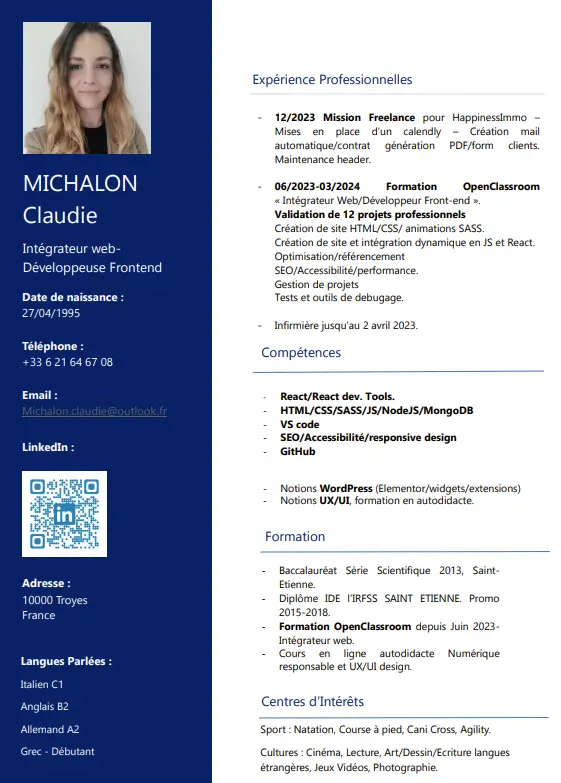
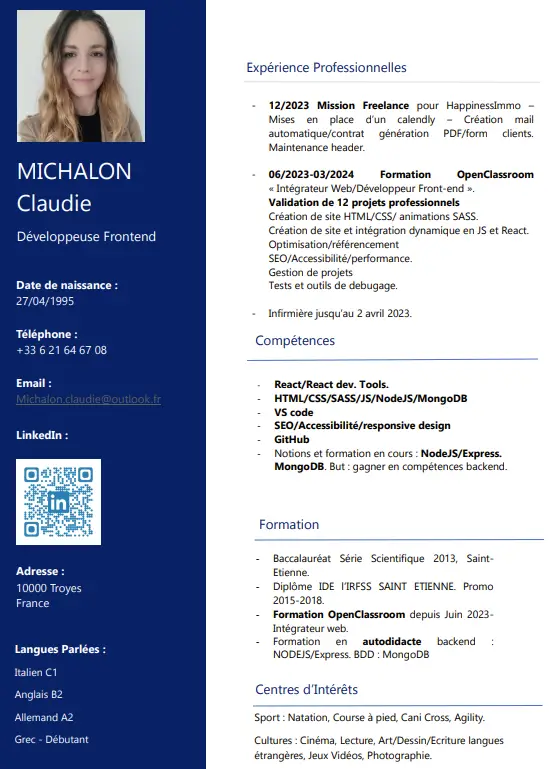
upgrade carrousel

diff --git a/src/Component/Carrousel.jsx b/src/Component/Carrousel.jsx
@@ -1,10 +1,20 @@
-import React, {useState} from 'react'
+import React, {useState,useEffect} from 'react'
 import '../Style/Carrousel.scss'
 import { faGithub } from '@fortawesome/free-brands-svg-icons';
 import { FontAwesomeIcon } from '@fortawesome/react-fontawesome';
 
 export default function Carousel({ project }) {
     const [currentImageIndex, setCurrentImageIndex] = useState(0);
+    const [autoplayInterval, setAutoplayInterval] = useState(null);
+
+    useEffect(() => {
+        // Définir l'intervalle de défilement automatique
+        const interval = setInterval(goToNextImage, 5000); // Changer d'image toutes les 5 secondes
+        setAutoplayInterval(interval);
+
+        // Nettoyer l'intervalle lorsque le composant est démonté
+        return () => clearInterval(interval);
+    }, [currentImageIndex]); // Mettre à jour l'effet lors du changement d'index d'image
 
     const goToPreviousImage = () => {
         const newIndex = (currentImageIndex - 1 + project.images.length) % project.images.length;
@@ -16,11 +26,14 @@ export default function Carousel({ project }) {
         setCurrentImageIndex(newIndex);
     };
 
+    const goToImage = (index) => {
+        setCurrentImageIndex(index);
+    };
+
     return (
         <section className='actual_project'>
             <h2>Project Actuel </h2>
             <div className="carousel">
-                <button onClick={goToPreviousImage} className="nav-button previous">&lt;</button>
                 <div className="project">
                     <img src={project.images[currentImageIndex]} alt={project.title} />
                     <h2>{project.title}</h2>
@@ -28,7 +41,15 @@ export default function Carousel({ project }) {
                         <FontAwesomeIcon icon={faGithub} />
                     </a>
                 </div>
-                <button onClick={goToNextImage} className="nav-button next">&gt;</button>
+            </div>
+            <div className="bullets">
+                {project.images.map((image, index) => (
+                    <button
+                        key={index}
+                        className={`bullet ${currentImageIndex === index ? 'active' : ''}`}
+                        onClick={() => goToImage(index)}
+                    />
+                ))}
             </div>
         </section>
     );

diff --git a/src/Style/Carrousel.scss b/src/Style/Carrousel.scss
@@ -1,10 +1,10 @@
-h2{
-    text-align: center;
-}
-.carousel{
+.actual_project{
     display: flex;
-    justify-content: space-around;
+    align-items: center;
+    flex-direction: column;
+.carousel{
     padding:40px 0px;
+    display: flex;
     align-items: center;
     .project{
         display: flex;
@@ -15,6 +15,8 @@ h2{
         }
         img{
             height:200px;
+            object-fit: cover;
+            width:98vw;
             @media screen and (max-width:800px) and (min-width:400px){
                 height:100px;
             }
@@ -22,23 +24,9 @@ h2{
                 height:60px;
             }
         }
-    }
-    .nav-button {
-        color: white;
-        line-height: normal;
-        text-transform: none;
-        text-indent: 0px;
-        text-shadow: none;
-        display: contents;
-        text-align: center;
-        cursor: default;
-        background-color: #0d1c56;
-        margin: 0em;
-        padding-block: 0px;
-        padding-inline: 0px;
-        border-width: 0px;
-        border-color: #0d1c56;
-        border-style: outset;
-        border-image: initial;
+        h2,a{
+            position:absolute;
+        }
     }
     }
+}

diff --git a/src/Style/Project.scss b/src/Style/Project.scss
@@ -11,6 +11,7 @@
     display: flex;
     justify-content: center;
     flex-wrap: wrap;
+    gap:40px;
     padding: 20px 30px;
     @media screen and (max-width: 700px) {
         padding: 20px 10px;
@@ -19,9 +20,11 @@
         width:23%;
         cursor:pointer;
         display: flex;
-        padding: 25px 25px;
-        height:252px;
+        height:226px;
+        padding:15px;
         transition: all 0.3s ease;
+        border-top: 1px white;
+        border-bottom: 1px white;
         @media screen and (max-width: 700px) and (min-width: 463px){
             width:33%;
             height:200px;
@@ -32,14 +35,13 @@
         }
         &:hover {
             transform: scale(1.1); 
-            filter: brightness(130%); 
+            filter: brightness(50%); 
         }
         img{
             object-fit: cover;
             width: 100%;
             height:100%;
-            border-radius: 20px;
-            box-shadow:1px 5px 8px white;
+            border-radius: 13px;
             }
     }
 }

diff --git a/src/Style/Banner.scss b/src/Style/Banner.scss
@@ -4,6 +4,18 @@
     color:white;
     font-weight: bold;
     padding:10%;
+    position: relative;
+    overflow: hidden;
+    &:after {
+        content: '';
+        position: absolute;
+        top: 0;
+        left: -100%; 
+        width: 100%;
+        height: 100%;
+        background: linear-gradient(to right, transparent, rgba(0,0,0,0.8));
+        animation: slideRight 10s linear infinite; 
+      }
 }
 
 .BannerP{
@@ -19,3 +31,12 @@
         background: url(../images/progress.webp);
     }
 }
+
+@keyframes slideRight {
+    0% {
+      left: -100%;
+    }
+    100% {
+      left: 100%; 
+    }
+  }

diff --git a/src/Component/Resume.jsx b/src/Component/Resume.jsx
@@ -13,7 +13,7 @@ export default function Resume(){
             <h2>Mon CV</h2>
             <img src={resume} alt="myResume"/>
             <Skill name="Education - Openclassroom Intégrateur Web" level={100} />
-            <Skill name="Education - Autodidacte Wordpress- UX Design" level={50} />
+            <Skill name="Education - Autodidacte Back-end:NodeJS/Express et MongoDB" level={50} />
             <button onClick={downloadResume}>Télécharger le CV</button>
         </div>
         <div className="skills">

diff --git a/src/Style/Naviguation.scss b/src/Style/Naviguation.scss
@@ -3,7 +3,6 @@
     flex-direction: row;
     align-items: center;
     color: #121b2b;
-    background: #C9D6FF;
     margin:20px 0px 20px 0px;
     .navList{
         display:flex;
@@ -27,7 +26,7 @@
             cursor:pointer;
             font-size:20px;
             padding:10px;
-            color:black;
+            color:white;
             @media screen and (max-width: 700px) and (min-width: 463px) {
                 font-size: 12px;
             }

diff --git a/src/Pages/Home.jsx b/src/Pages/Home.jsx
@@ -28,7 +28,7 @@ export default function Home()
   
     const actualProject = {
         "title": "Italiano Segreto",
-        "images": ["../../img/Venise3.webp", "../../img/firenze.webp", "../../img/pasta.webp"],
+        "images": ["../../img/venise.webp", "../../img/sicilia.webp", "../../img/pasta.webp"],
         "githubLink":"https://github.com/michalon-claudie/ItalianWebsite"
     }
     return (
